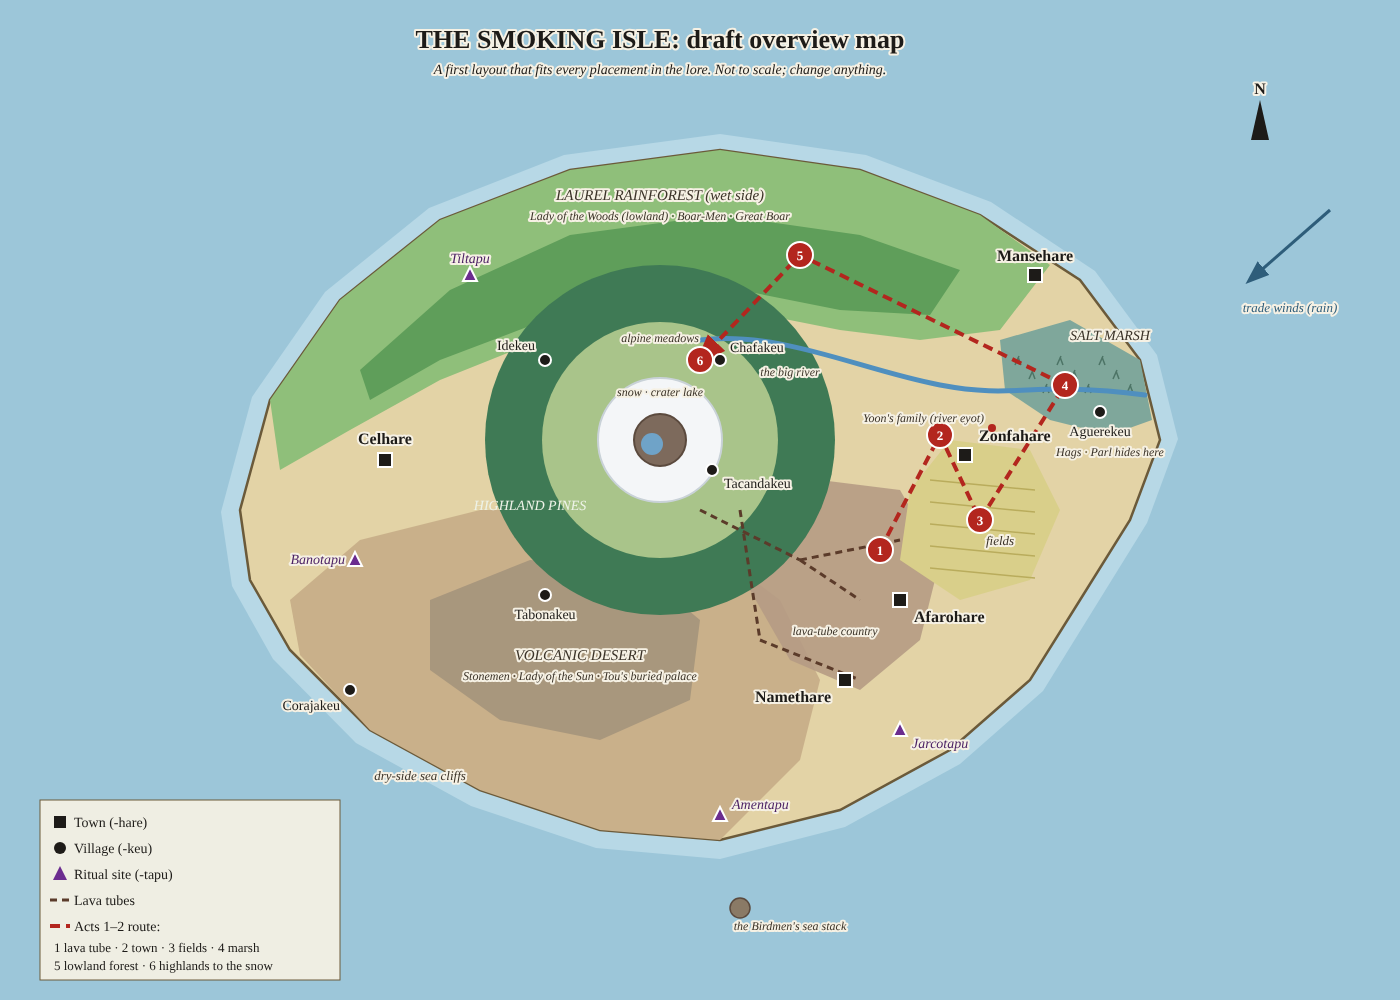
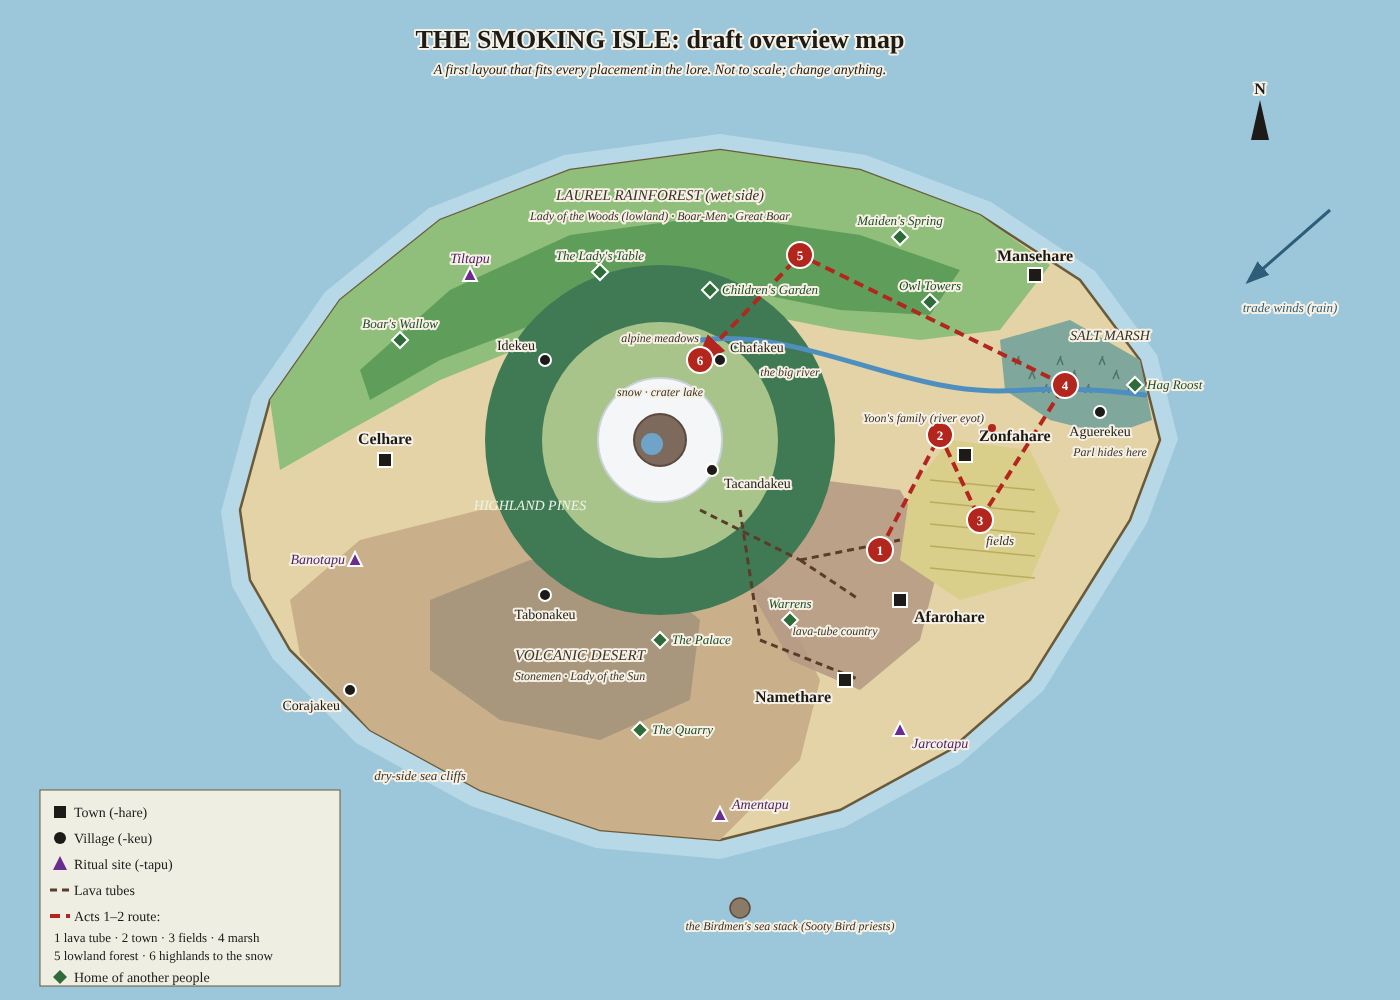
Lore and map: the other peoples' homes (the Forest, the Buried Court, Hag Roost, Owl Towers); the Birdmen are Islander priests of Sooty Bird
Claude-Session: https://claude.ai/code/session_01USrj86DRFheB9HvKKGpqvE

diff --git a/docs/lore.md b/docs/lore.md
@@ -898,6 +898,38 @@ She lives in **Mansehare**, next door to Iras. She's also an optional **party me
   complaints; if either dies in Act 4, the other's notes stop. Met at random bothies; sell fuel,
   Fire-Starting Kits and trail food.
 
+
+### The other peoples and their homes
+The Seafarers counted the Islanders, a few thousand people. They didn't count the **People of the Forest**,
+the **Children of the Caves** (whom adults can't even see), the **Stonemen**, the **Hags** or the **Owls**, so
+the island is far more populous, and far better defended, than Parl's reports said. Each people has its own
+**polity**, and the four ally commanders are their royals: **Dama** (the Islanders, by consent), **Tou** (the
+Buried Court), **Falmi** (the Forest's heir) and **Thenmy** (the Seafarers, and later his defectors).
+These homes trade in **favours and barter, not cowries**: the Forest wants honesty and offerings, the Court
+wants shiny things and courtesy to its queen. Who can see what matters: at the Court, children do the talking.
+
+**The Forest** (the Lady of the Woods' realm; a living people with a future):
+- **The Lady's Table:** her feasting hall in the laurel forest. Her quests, the forest agreements, allies.
+- **The Children's Garden:** the herb beds where the people grow their children, imps half-sprouted in the
+  soil. The obvious target for the Princess's fires in Act 5.
+- **The Maiden's Spring:** the Stream Maidens' home. Herb lore, rare remedy recipes, a spirit-talking healer.
+- **The Boar's Wallow:** the Boar-Men's warrior camp. Plain talk, contests of strength, hide and bone crafts.
+(The Shepherd of the Deer's high meadows, near Chafakeu, belong to the Forest too.)
+
+**The Buried Court** (Tou's realm; a frozen people, the past still holding court):
+- **The Palace:** Tou's buried palace in the volcanic desert, and her throne room.
+- **The Warrens:** the Children of the Caves' tunnel town in the lava-tube country, and the **Cave Hoard**,
+  where stolen things can be bought back with shiny things.
+- **The Quarry:** where the Stonemen stand unfinished, waiting for orders (after Rapa Nui's Rano Raraku).
+
+**Others:**
+- **The Hag Roost:** crane-nest huts in the deep salt marsh, past Aguerekeu.
+- **The Owl Towers:** the First Sailor ruins in the laurel forest where the Owls of Ill Omen perch; a disputed
+  loyalty between the Lady and Tou.
+- **The Birdmen's sea stack:** off Amentapu; Islander priests of Sooty Bird, not another people.
+- **The Destroyer's deep tubes:** the hostile one, where Aday's drill leads.
+
+All are on the overview map (`docs/island-map.png`, green diamonds).
 ---
 
 ## 3b. The First Sailors
@@ -1120,9 +1152,9 @@ Iberia, Iceland). The strangeness is saved for spirits and First Sailor creation
 
 **Mythic and chimeric beings** follow the island's own patterns: chimeras of goat, pig, bull, snake
 and owl; animals the Ladies turned into peoples; and **the First Sailors' "various creations"**.
-- **Birdmen** (after Rapa Nui's tangata manu; **confirmed**): bird-headed First Sailor creations that
-  still race each spring for the first sooty tern egg on a sea-stack islet. Tied to Sooty Bird and the
-  eggshell glyphs; Tou knows the ceremony.
+- **Birdmen** (after Rapa Nui's tangata manu): **Islander priests of Sooty Bird** who live on the sea stack
+  off Amentapu, wear tern feathers and eat tern eggs. Tied to the spring race for the first sooty tern egg
+  and to the eggshell glyphs. (Not a First Sailor creation.)
 - **Kavakava figures:** rib-thin carved ancestor figures guarding First Sailor tombs. Weak to fire and
   Crush.
 - **Crew-beasts** (**confirmed**): guard and work animals bred by the First Sailors (coral-eyed dogs,
@@ -1218,7 +1250,7 @@ Sun and the Destroyer lean Fire.
 | Pranksters | Children of the Caves, forest child-fae (Green Horses) | Lasa / Falmi talk them down; Threaten scares fae off |
 | Forest people | Boar-men, Owls of Ill Omen | Sapient/spirit; **directness works, cleverness backfires** (boar-men); Tou may stop the owls |
 | Local spirits | Ghosts, Guardian Lizards, Sleep Demons, Daughters of the Wells | Spirit (Sib's Rite, Yoon's ghost kinship) |
-| First Sailor remnants | Stonemen, ancient ghosts, Hags, Birdmen, Crew-beasts, Kavakava figures | **Tou** (Stonemen surrender, ghosts report, Hags conflicted); Yoon (Hags dote on Yoon) |
+| First Sailor remnants | Stonemen, ancient ghosts, Hags, Crew-beasts, Kavakava figures | **Tou** (Stonemen surrender, ghosts report, Hags conflicted); Yoon (Hags dote on Yoon) |
 | Servants of the Destroyer | Black Hounds, Hunched | Hounds: **cannot talk**. Hunched: **Talk to free them** |
 | All-Seafarers | Soldiers, officers; the Princess's troops | Sapient (Parl, Thenmy; spare children vs. not) |
 | Sea | Giant Clams | None |
